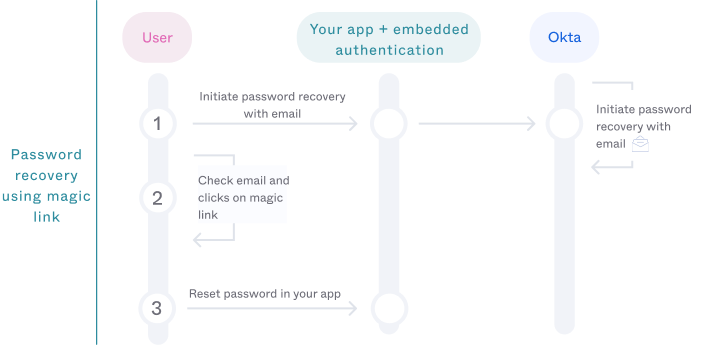
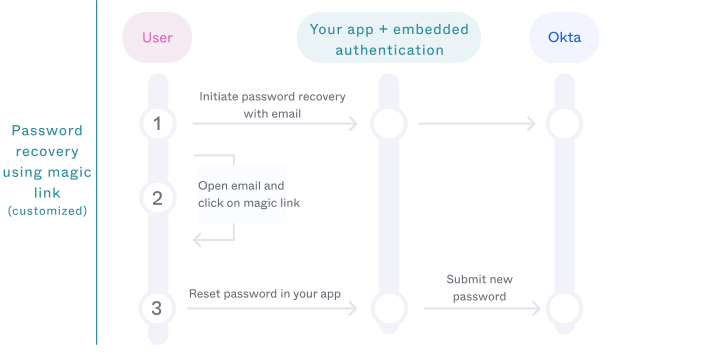
First draft of custom password recovery guide

diff --git a/packages/@okta/vuepress-site/docs/guides/oie-embedded-sdk-use-case-custom-pwd-recovery-mfa/main/index.md b/packages/@okta/vuepress-site/docs/guides/oie-embedded-sdk-use-case-custom-pwd-recovery-mfa/main/index.md
@@ -9,20 +9,13 @@ title: Custom password recovery
 
 <StackSelector />
 
-This guide shows you how to
-
-This guide shows you how to customize the password recovery use case to create a tighter integration
-
-
-flexible self-service recovery operations in OIE
-
-This guide shows you how to customize the password recovery use case using Okta's embedded authentication solutions. Specifically,
+This guide shows how to customize the self-service password recovery flow using Okta's embedded solutions. Specifically, it details how you can better control your user's password recovery experience using email authentication and magic links.
 
 ---
 **Learning outcomes**
 
-* Understand the password recovery use case
-* Learn how to customize your password recovery integration
+* Understand the supported flows within password recovery
+* Learn step-by-step how to customize your user's password recovery experience
 
 **What you need**
 
@@ -42,11 +35,11 @@ This guide shows you how to customize the password recovery use case using Okta'
 
 ## Overview
 
-Okta's embedded solutions allow you to fully customize your user's authentication journeys with full support for theming, branding and, depending your solution, complete control of the user experience. This guide covers customizations for one particular journey, self-service password recovery, where an authenticator is used to verify the user before they can reset their password.
+Okta's embedded solutions allow you to customize your authentication use cases with full support for theming, branding, and extensive ways to control the user experience. This guide covers customizations for one particular use case, self-service password recovery, where an email authenticator is used to verify the user before they can reset their password.
 
 ### Two different user experiences using email
 
-When the email authenticator is used with password recovery, there is out of the box support for two different types of user experiences: using the magic link or one-time password (OTP). With the magic link, the user initiates the password recovery in your app, clicks on the magic link in their email, and completes the password reset using an Okta hosted site. With OTP, the user intiates the password recovery in your app, copies the OTP from their email to your app, and completes the password reset in your app. The following diagram illustrates these two experiences:
+When you configure an email authenticator with password recovery, there is out-of-the-box support for two different types of user experiences: click a magic link or copy a one-time password (OTP). With the magic link experience, the user initiates the password recovery in your app, clicks on the magic link in their email, and completes the password reset using an Okta-hosted site. With OTP, the user initiates the password recovery in your app, copies the OTP from their email to your app, and completes the password reset in your app. The following diagram illustrates these two experiences:
 
 <div class="common-image-format">
 
@@ -56,9 +49,9 @@ When the email authenticator is used with password recovery, there is out of the
 
 ### The case for customizing the email magic link experience
 
-The OTP experience allows for greater customization because it keeps the user within your app when they make the password reset. Since the user needs to copy the OTP from email to your app, it does however, introduce additional friction to the overall experience. Magic links provides a smoother experience by only requiring the user to click a link. This experience however, sends them to an Okta hosted site to complete the password reset which limits the branding and other customizations you can implement.
+The OTP experience allows for greater customization because it keeps the user within your app when performing the password reset. However, it does introduce additional friction since the user needs to copy the OTP from their email to your app. Magic links, on the other hand, provide a smoother experience by only requiring the user to click a link. However, the drawback with this experience is that it sends them to an Okta-hosted site to reset their password, which limits the branding and other customizations you can implement.
 
-Fortunately, you can provide your users with a password recovery experience that friction free and customized. When your users initiate a password recovery, they click on the magic link in their email and get sent directly to your app to complete the password reset. The flow looks like the following:
+Fortunately, you can provide your users with a password recovery experience that's friction-free and customizable. In this customized experience, your users click the magic link and, instead of redirecting to an Okta-hosted site, they get sent directly to your app to reset their password. The flow looks like the following:
 
 <div class="common-image-format">
 
@@ -66,50 +59,50 @@ Fortunately, you can provide your users with a password recovery experience that
 
 </div>
 
-With this customized password recovery experience, you gain better control of the user experience, keep user interactions contained as much as possible within your app, and have your users back to your app with a single click. This guide discusses the configuration changes and updates needed to make to your app support this experience.
+With this customized experience, you gain better control of the user experience, keep user interactions contained as much as possible within your app, and send your users back to your app with a single click. This guide discusses the configuration changes and updates needed to make your app support this experience.
 
 ## Before you begin
 
 Before you begin you need to:
 
-* Create and Okta org and configure it as described in <StackSnippet snippet="orgconfigurepwdonly" inline/>.
-* Build an app with the Embedded Sign-in Widget or SDK.
-  * For Sign-in Widget based apps, implement [Basic sign-in flow](docs/guides/oie-embedded-widget-use-case-basic-sign-in/nodejs/main/).
-  * For SDK based apps, implement [User Password Recovery](docs/guides/oie-embedded-sdk-use-case-pwd-recovery-mfa/nodejs/main/).
-* If you want to test the flows without building an app, use the provided sample apps which have prebult support password recovery email customizations.
+1. Create an Okta org and configure it as described in <StackSnippet snippet="orgconfigurepwdonly" inline/>.
+1. [Set up the SDK and Sign-in Widget](/docs/guides/oie-embedded-common-download-setup-app/nodejs/main/)
+1. Build an app with the Embedded Sign-in Widget or SDK.
+    * For Sign-in Widget based apps, implement [Basic sign-in flow](docs/guides/oie-embedded-widget-use-case-basic-sign-in/nodejs/main/).
+    * For SDK based apps, implement [User Password Recovery](docs/guides/oie-embedded-sdk-use-case-pwd-recovery-mfa/nodejs/main/).
+1. If you want to test the flows without building an app, use the provided sample apps, which have prebuilt support for password recovery email customizations.
 
 ## Summary of changes
 
 To give your users this customized experience, perform the following steps:
 
-* [Update your org to support email authentication during password recovery](#update-your-org)
+* [Update your org to support the email authenticator with password recovery](#update-your-org)
 * [Update the Forgot Password email template to point to your app](#update-the-forgot-password-email-template)
 * Depending on your embedded integration solution either:
-    * [Update your Sign-In Widget based app](#update-your-app-with-the-embedded-sign-in-widget)
-    * [Update your SDK based app](#update-your-app-with-the-embedded-sdk)
+    * [Update your Sign-In Widget based app](#update-your-sign-in-widget-integration)
+    * [Update your SDK based app](#update-your-sdk-integration)
 
 ## Update your org
 
-Confirm that you have the email authenticator setup for password recovery by performing the following steps:
+Confirm that you have the email authenticator set up for password recovery by performing the following steps:
 
 1. In the Admin Console, go to **Security > Authenticators**.
 1. On the **Authenticators** page, confirm you have the **Email** authenticator added to your org. If not present, add it by clicking on **Add Authenticator** and locating **Email**.
-1. Open the **Email** authenticator and note the value of **
-1. The **Password** authenticator and click on its **Actions** menu and select **Edit**.
-1. On the **Password** page, scroll down to the rules section click and edit the **Default Rule** (or currently active rule) by clicking the pencil icon.
+1. Find the **Password** authenticator, click on its **Actions** link, and select **Edit** in the dropdown.
+1. On the **Password** page, scroll down to the rules section. Edit the **Default Rule** (or currently active rule) by clicking on its pencil icon.
 1. On the **Edit Rule** page, confirm that **Email** is checked for the **Users can initiate recovery with** field.
-1. If changes were made, click **Update Rule**
+1. If changes were made, click **Update Rule**.
 
 ## Update the Forgot Password email template
 
-When the user selects the email authenticator during the password recovery flow, the receive an email based on the **Forgot Password** email template. This template contains variables the dynmaically set the reset password link, one-time password, and other values in the generated email. Update the link in this template to point to your app and include the OTP and relay state variable. To update the template execute the following steps:
+When users initiate a password recovery, they are sent an email based on the **Forgot Password** template. Variables in this template are dynamically set before the email is generated and sent to the user. By default, the magic link is set to `resetPasswordLink`, which resolves to an Okta-hosted site. Update this link to point to your app and include the `oneTimePassword` and `request.relayState` variables in the URL's query parameter. To make this update perform the following steps:
 
 1. In the Admin Console, go to **Customizations > Emails**.
 1. On the **Emails** page, find the **Password** category on the template menu.
 1. Under **Password**, click **Forgot Password**.
 1. On the **Forgot Password** email template page, click **Edit**.
 1. On the **Edit Default Email**, do the following:
-  1. In the **Message** field, locate the reset password link in the field's HTML. The link is located in the `href` attribute of an `<a>` tag with the `id` of `reset-password-link`.  The following snippet shows the actual placement of the `<a>` tag within the HMTL:
+  1. In the **Message** field, locate the magic link in the field's HTML. The link is located in the `href` attribute of an `<a>` tag with the `id` of `reset-password-link`. The following snippet shows the actual placement of the `<a>` tag within the HMTL:
 
       ```html
       <a id="reset-password-link" href="${resetPasswordLink}" style="text-decoration: none;">
@@ -126,17 +119,35 @@ When the user selects the email authenticator during the password recovery flow,
       | otp            | *${oneTimePassword}*    |
       | state          | *${request.relayState}* |
 
+      After your updates the URL should take the following format: `http://[your app's address]?otp=${oneTimePassword}&state=${request.relayState}`.
 
       <StackSnippet snippet="emailtemplate" />
 
-  1. Click **Save**, to save the changes and close the dialog window.
+  1. Click **Save** and close the dialog window.
 
 
-### Update your Embedded Sign-In Widget integration
+## Update your Sign-In Widget integration
+
+The next step is to update your app to accept the link with the `otp` and `state` parameters. If you're using the Sign-in Widget, execute the following steps to make this update. If your app uses the SDK, go to [Update your SDK integration](#update-your-sdk-integration).
+
+### Summary of steps
+
+The following diagram illustrates the steps in the customized password recovery using a Sign-in Widget based app.
+
+
+<StackSnippet snippet="siwsummary" />
 
 <StackSnippet snippet="siw" />
 
-### Update your Embedded SDK integratino
+## Update your SDK integration
+
+The next step is to update your app to accept the link with the `otp` and `state` parameters. If you're using the SDK, execute the following steps to make this update. If your app uses the Sign-in Widget, go to [Update your Sign-In Widget integration](#update-your-sign-in-widget-integration).
+
+### Summary of steps
+The following diagram illustrates the steps in the customized password recovery using a SDK based app.
+
+
+<StackSnippet snippet="sdksummary" />
 
 <StackSnippet snippet="sdk" />
 

diff --git a/packages/@okta/vuepress-site/docs/guides/oie-embedded-sdk-use-case-custom-pwd-recovery-mfa/main/nodeexpress/sdk.md b/packages/@okta/vuepress-site/docs/guides/oie-embedded-sdk-use-case-custom-pwd-recovery-mfa/main/nodeexpress/sdk.md
@@ -1,15 +1,20 @@
 ### 1: Initiate password recovery
 
-The first step is for the user to initiate the password recovery flow and choosing email as the authenticator. Once the email is submited as the authenticator, Okta sends an email to the user's email address. Integrating these initials steps are described in detail in the [User password recovery guide](docs/guides/oie-embedded-sdk-use-case-pwd-recovery-mfa/nodejs/main/).
+The first step is to initiate the password recovery flow and choose email as the authenticator. Once the user submits the email as an authenticator, Okta sends an email to their email address. These initial steps are described in detail in the [User password recovery guide](docs/guides/oie-embedded-sdk-use-case-pwd-recovery-mfa/nodejs/main/).
 
-Before sending out the email, Okta first builds the message by using the **Forgot Password** template and translating the including template variables. The `otp` and `request.relayState` variables, you setup in [previously](#update-the-forgot-password-email-template) are translated into actual values. For example:
-
-**URL in the template:** `http://localhost:8080/login/callback?otp=${oneTimePassword}&state=${request.relayState}`
-**Translated URL send to user:** `http://localhost:8080/login/callback?otp=726009&state=1b34371af02dd31d2bc4c48a3607cd32`
+Before sending the email, Okta builds the message based on the **Forgot Password** template. The `otp` and `request.relayState` variables are translated into actual values. For example,`http://localhost:8080/login/callback?otp=${oneTimePassword}&state=${request.relayState}` becomes `http://localhost:8080/login/callback?otp=726009&state=1b34371af02dd31d2bc4c48a3607cd32`.
 
 ### 2: Click on email magic link
 
-The next step is for the user to click on link in the email. Add a route to accept the link's url in your app. Include logic to parse the OTP and state query parameters out of the URL string.
+The next step is to open the Okta email and click its reset password link.
+
+<div class="common-image-format">
+
+![Screenshot of email sent to user](/img/advanced-use-cases/custom-pwd-recovery-custom-email.png)
+
+</div>
+
+Add a route to accept the link's URL in your app. Include logic to parse the `otp` and `state` parameters out of the URL string.
 
 ```javascript
 router.get('/login/callback', async (req, res, next) => {
@@ -20,9 +25,9 @@ router.get('/login/callback', async (req, res, next) => {
   ...
 ```
 
-### 3: Check if OTP and state parameters are included in URL
+### 3: Check if otp and state parameters are included in URL
 
-Check to see if OTP and state exists in the query parameter by calling `OktaAuth.idx.isEmailVerifyCallback()` passing in the query parameter string. An example query string: `?otp=726009&state=1b34371af02dd31d2bc4c48a3607cd32`
+Check to see if `otp` and `state` exists in the query parameter by calling `OktaAuth.idx.isEmailVerifyCallback()` passing in the query parameter string. An example query string: `?otp=726009&state=1b34371af02dd31d2bc4c48a3607cd32`
 
 ```javascript
 if (authClient.idx.isEmailVerifyCallback(search)) {
@@ -30,7 +35,7 @@ if (authClient.idx.isEmailVerifyCallback(search)) {
 }
 ```
 
-### 3: Submit the OTP and state parameters
+### 4: Submit the otp and state parameters
 
 If the parameters exist, submit and verify them by calling `OktaAuth.idx.handleEmailVerifyCallback()` passing in the query string used in the previous step.
 
@@ -39,9 +44,9 @@ const transaction = await authClient.idx.handleEmailVerifyCallback(search);
 handleTransaction({ req, res, next, authClient, transaction });
 ```
 
-### 4: Handle next step response
+### 5: Handle next step response
 
-If the OTP and state area valid, `OktaAuth.idx.handleEmailVerifyCallback()` returns an `IdxTransaction` object indicating that the next step is for the user to reset their password.  Specifically, `status` equals `PENDING` and `nextStep.name` is set to `reset-authenticator`
+If the `otp` and `state` are valid, `OktaAuth.idx.handleEmailVerifyCallback()` returns an `IdxTransaction` object indicating that the next step is for the user to reset their password.  Specifically, `status` equals `PENDING` and `nextStep.name` is set to `reset-authenticator`
 
 ```json
 {
@@ -66,11 +71,12 @@ If the OTP and state area valid, `OktaAuth.idx.handleEmailVerifyCallback()` retu
 
 ```
 
-### Display password reset page and continuing the password recovery flow
+### 6: Display password reset page and continue the password recovery flow
 
-Display the password reset page and continue the password recovery flow described in the [User password recovery guide](docs/guides/oie-embedded-sdk-use-case-pwd-recovery-mfa/nodejs/main/).
+Based on the `IdxTransaction` response, display the password reset page and continue the password recovery flow described in the [User password recovery guide](docs/guides/oie-embedded-sdk-use-case-pwd-recovery-mfa/nodejs/main/).
 
-```javascript
-    case 'reset-authenticator':
-      nextRoute = '/reset-password';
-```
+<div class="common-image-format">
+
+![Screenshot of password reset page](/img/advanced-use-cases/custom-pwd-recovery-custom-sdk-reset-pwd-page.png)
+
+</div>

diff --git a/packages/@okta/vuepress-site/docs/guides/oie-embedded-sdk-use-case-custom-pwd-recovery-mfa/main/nodeexpress/siw.md b/packages/@okta/vuepress-site/docs/guides/oie-embedded-sdk-use-case-custom-pwd-recovery-mfa/main/nodeexpress/siw.md
@@ -1,15 +1,20 @@
 ### 1: Initiate password recovery
 
-The first step is for the user to initiate the password recovery flow and choosing email as the authenticator. Once the email is submited as the authenticator, Okta sends an email to the user's email address. Integrating these initials steps are described in detail in the [User password recovery guide](docs/guides/oie-embedded-sdk-use-case-pwd-recovery-mfa/nodejs/main/).
+The first step is to initiate the password recovery flow and choose email as the authenticator. Once the user submits the email as an authenticator, Okta sends an email to their email address. These initial steps are described in detail in the [User password recovery guide](docs/guides/oie-embedded-sdk-use-case-pwd-recovery-mfa/nodejs/main/).
 
-Before sending out the email, Okta first builds the message by using the **Forgot Password** template and translating the including template variables. The `otp` and `request.relayState` variables, you setup in [previously](#update-the-forgot-password-email-template) are translated into actual values. For example:
-
-**URL in the template:** `http://localhost:8080/login/callback?otp=${oneTimePassword}&state=${request.relayState}`
-**Translated URL send to user:** `http://localhost:8080/login/callback?otp=726009&state=1b34371af02dd31d2bc4c48a3607cd32`
+Before sending the email, Okta builds the message based on the **Forgot Password** template. The `otp` and `request.relayState` variables are translated into actual values. For example,`http://localhost:8080/login/callback?otp=${oneTimePassword}&state=${request.relayState}` becomes `http://localhost:8080/login/callback?otp=726009&state=1b34371af02dd31d2bc4c48a3607cd32`.
 
 ### 2: Click on email magic link
 
-The next step is for the user to click on link in the email. Add a route to accept the link's url in your app. Include logic to parse the OTP and state query parameters out of the URL string.
+The next step is to open the Okta email and click its reset password link.
+
+<div class="common-image-format">
+
+![Screenshot of email sent to user](/img/advanced-use-cases/custom-pwd-recovery-custom-email.png)
+
+</div>
+
+Add a route to accept the link's URL in your app. Include logic to parse the `otp` and `state` parameters out of the URL string.
 
 ```javascript
 router.get('/login/callback', async (req, res, next) => {
@@ -20,9 +25,9 @@ router.get('/login/callback', async (req, res, next) => {
   ...
 ```
 
-### 3: Check if OTP and state parameters are included in URL
+### 3: Check if the otp and state parameters are included in URL
 
-Check to see if OTP and state exists in the query parameter by calling `OktaAuth.idx.isEmailVerifyCallback()` passing in the query parameter string. An example query string: `?otp=726009&state=1b34371af02dd31d2bc4c48a3607cd32`
+Check to see if the `otp` and `state` parameters exist in the query parameter by calling `OktaAuth.idx.isEmailVerifyCallback()` passing in the query parameter string. For example the query string can look like `?otp=726009&state=1b34371af02dd31d2bc4c48a3607cd32`.
 
 ```javascript
 if (authClient.idx.isEmailVerifyCallback(search)) {
@@ -40,9 +45,9 @@ Call `OktaAuth.idx.canProceed()` passing in the`state` parameter to verify there
       return;
 ```
 
-### 5:
--------- ACTUAL DATA
-### Check if OTP and relaystate has been passed to url
+### 5: Setup and render Widget with otp and State
+
+Once you validate the `state` parameter, the final step is to set up the `otp` and `state` in the widget configurations. Setup the configurations based on the following snippet:
 
 ```javascript
     const widgetConfig = {
@@ -63,6 +68,8 @@ Call `OktaAuth.idx.canProceed()` passing in the`state` parameter to verify there
     });
 ```
 
+Once set up, render the client site page and pass the configurations to the widget during initialization.
+
 ```html
 <script type="text/javascript">
   const widgetConfig = {{{widgetConfig}}};
@@ -77,17 +84,12 @@ Call `OktaAuth.idx.canProceed()` passing in the`state` parameter to verify there
 </script>
 ```
 
-```javascript
-  if (authClient.idx.isEmailVerifyCallback(search)) {
-    if (authClient.idx.canProceed({ state })) {
-      res.redirect(`/login?state=${state}&otp=${otp}`);
-      return;
-    } else {
-      const error = new Error(`Enter the OTP code in the original tab: ${otp}`);
-      next(error);
-      return;
-    }
-  }
-```
+### 6: Display password reset page and continue the password recovery flow
 
-The widget polls on both tabs but the SDK does not.
+Once the widget is loaded, the following reset page is displayed:
+
+<div class="common-image-format">
+
+![Screenshot of password reset page](/img/advanced-use-cases/custom-pwd-recovery-custom-siw-reset-pwd-page.png)
+
+</div>

diff --git a/packages/@okta/vuepress-site/docs/guides/oie-embedded-sdk-use-case-custom-pwd-recovery-mfa/main/nodeexpress/emailtemplate.md b/packages/@okta/vuepress-site/docs/guides/oie-embedded-sdk-use-case-custom-pwd-recovery-mfa/main/nodeexpress/emailtemplate.md
@@ -1,4 +1,4 @@
-If your using the Sign-In Widget or SDK sample app use: `http://localhost:8080/login/callback?otp=${oneTimePassword}&state=${request.relayState}` for the URL. The following snippet shows how the URL looks in the HTML message:
+If your using the Sign-In Widget or SDK sample app use `http://localhost:8080/login/callback?otp=${oneTimePassword}&state=${request.relayState}`. The following snippet shows how the URL looks in the HTML message:
 
 ```html
   <a id="reset-password-link"

diff --git a/packages/@okta/vuepress-site/docs/guides/oie-embedded-sdk-use-case-custom-pwd-recovery-mfa/main/nodeexpress/oiesdksetup.md b/packages/@okta/vuepress-site/docs/guides/oie-embedded-sdk-use-case-custom-pwd-recovery-mfa/main/nodeexpress/oiesdksetup.md
@@ -1,1 +1,1 @@
-[Identity Engine SDK set up for your own app](/docs/guides/oie-embedded-common-download-setup-app/nodejs/main/)
+[An app set up with the Embedded Sign-in Widget or SDK](/docs/guides/oie-embedded-common-download-setup-app/nodejs/main/)

diff --git a/packages/@okta/vuepress-site/docs/guides/oie-embedded-sdk-use-case-custom-pwd-recovery-mfa/main/nodeexpress/sdksummary.md b/packages/@okta/vuepress-site/docs/guides/oie-embedded-sdk-use-case-custom-pwd-recovery-mfa/main/nodeexpress/sdksummary.md
@@ -1,0 +1,5 @@
+<div class="common-image-format">
+
+![Sequence diagram showing custom password recovery](/img/advanced-use-cases/custom-pwd-recovery-custom-sdk-summary.png)
+
+</div>

diff --git a/packages/@okta/vuepress-site/docs/guides/oie-embedded-sdk-use-case-custom-pwd-recovery-mfa/main/nodeexpress/siwsummary.md b/packages/@okta/vuepress-site/docs/guides/oie-embedded-sdk-use-case-custom-pwd-recovery-mfa/main/nodeexpress/siwsummary.md
@@ -1,0 +1,5 @@
+<div class="common-image-format">
+
+![Sequence diagram showing custom password recovery](/img/advanced-use-cases/custom-pwd-recovery-custom-siw-summary.png)
+
+</div>
